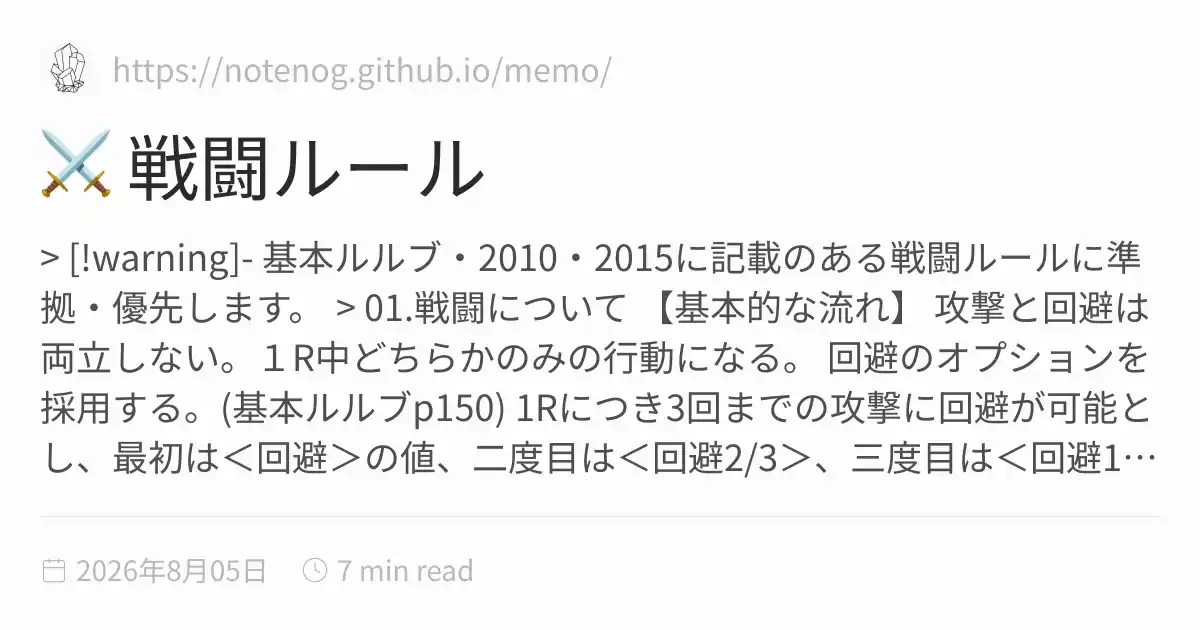
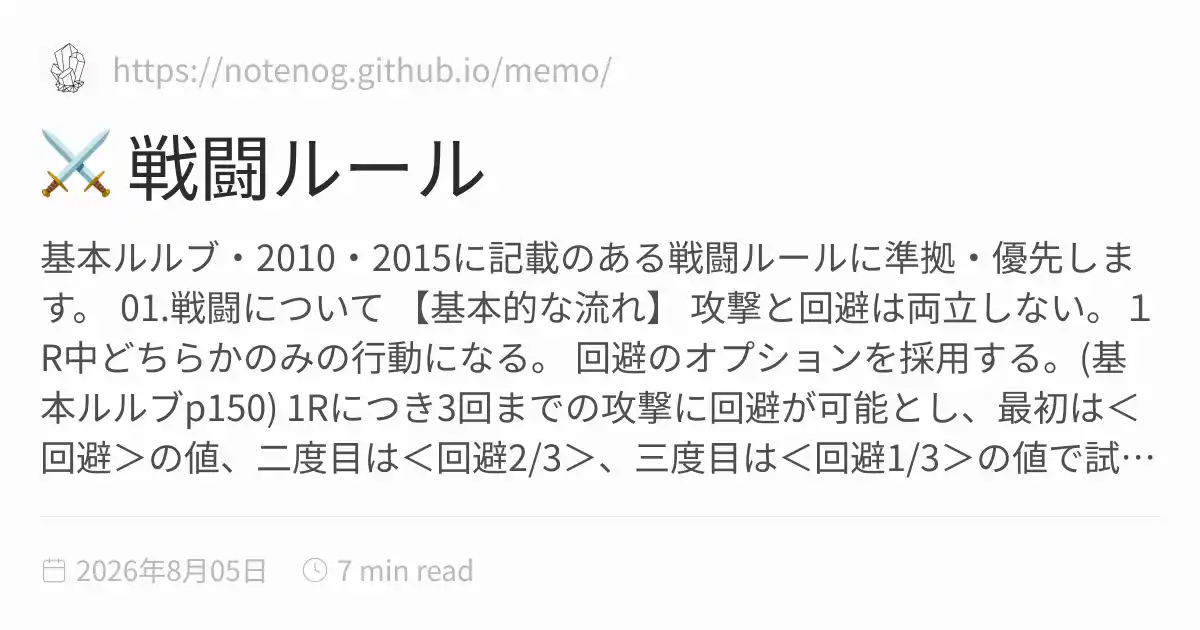
記事を更新

Changed region(s): [[0.0308, 0.5429, 0.9558, 0.754], [0.0308, 0.3619, 0.9558, 0.5127]]

diff --git a/docs/CoC/02CoC_battle.html b/docs/CoC/02CoC_battle.html
@@ -1,5 +1,5 @@
 <!DOCTYPE html>
-<html lang="ja" dir="ltr"><head><title>⚔ 戦闘ルール</title><meta charset="utf-8"/><link rel="preconnect" href="https://fonts.googleapis.com"/><link rel="preconnect" href="https://fonts.gstatic.com"/><link rel="stylesheet" href="https://fonts.googleapis.com/css2?family=Schibsted Grotesk:wght@400;700&amp;family=Noto Sans JP:ital,wght@0,400;0,600;1,400;1,600&amp;family=IBM Plex Mono:wght@400;600&amp;display=swap"/><link rel="preconnect" href="https://cdnjs.cloudflare.com" crossorigin="anonymous"/><meta name="viewport" content="width=device-width, initial-scale=1.0"/><meta name="og:site_name" content="memo"/><meta property="og:title" content="⚔ 戦闘ルール"/><meta property="og:type" content="website"/><meta name="twitter:card" content="summary_large_image"/><meta name="twitter:title" content="⚔ 戦闘ルール"/><meta name="twitter:description" content="> [!warning]- 基本ルルブ・2010・2015に記載のある戦闘ルールに準拠・優先します。 > 01.戦闘について 【基本的な流れ】 攻撃と回避は両立しない。１R中どちらかのみの行動になる。 回避のオプションを採用する。(基本ルルブp150) 1Rにつき3回までの攻撃に回避が可能とし、最初は＜回避＞の値、二度目は＜回避2/3＞、三度目は＜回避1/3＞の値で試みることが出来る。数値は切り上げ。 １つの攻撃に３回回避が出来る訳ではない。一度回避に失敗した時点でダメージロールを行う。 ただし上記の通り、既に攻撃を行ってる場合回避は一度も行えない。逆も同様。 受け流しはあらゆる..."/><meta property="og:description" content="> [!warning]- 基本ルルブ・2010・2015に記載のある戦闘ルールに準拠・優先します。 > 01.戦闘について 【基本的な流れ】 攻撃と回避は両立しない。１R中どちらかのみの行動になる。 回避のオプションを採用する。(基本ルルブp150) 1Rにつき3回までの攻撃に回避が可能とし、最初は＜回避＞の値、二度目は＜回避2/3＞、三度目は＜回避1/3＞の値で試みることが出来る。数値は切り上げ。 １つの攻撃に３回回避が出来る訳ではない。一度回避に失敗した時点でダメージロールを行う。 ただし上記の通り、既に攻撃を行ってる場合回避は一度も行えない。逆も同様。 受け流しはあらゆる..."/><meta property="og:image:alt" content="> [!warning]- 基本ルルブ・2010・2015に記載のある戦闘ルールに準拠・優先します。 > 01.戦闘について 【基本的な流れ】 攻撃と回避は両立しない。１R中どちらかのみの行動になる。 回避のオプションを採用する。(基本ルルブp150) 1Rにつき3回までの攻撃に回避が可能とし、最初は＜回避＞の値、二度目は＜回避2/3＞、三度目は＜回避1/3＞の値で試みることが出来る。数値は切り上げ。 １つの攻撃に３回回避が出来る訳ではない。一度回避に失敗した時点でダメージロールを行う。 ただし上記の通り、既に攻撃を行ってる場合回避は一度も行えない。逆も同様。 受け流しはあらゆる..."/><meta property="twitter:domain" content="https://notenog.github.io/memo/"/><meta property="og:url" content="https://https//notenog.github.io/memo/CoC/02CoC_battle"/><meta property="twitter:url" content="https://https//notenog.github.io/memo/CoC/02CoC_battle"/><link rel="icon" href="../static/icon.png"/><meta name="description" content="> [!warning]- 基本ルルブ・2010・2015に記載のある戦闘ルールに準拠・優先します。 > 01.戦闘について 【基本的な流れ】 攻撃と回避は両立しない。１R中どちらかのみの行動になる。 回避のオプションを採用する。(基本ルルブp150) 1Rにつき3回までの攻撃に回避が可能とし、最初は＜回避＞の値、二度目は＜回避2/3＞、三度目は＜回避1/3＞の値で試みることが出来る。数値は切り上げ。 １つの攻撃に３回回避が出来る訳ではない。一度回避に失敗した時点でダメージロールを行う。 ただし上記の通り、既に攻撃を行ってる場合回避は一度も行えない。逆も同様。 受け流しはあらゆる..."/><meta name="generator" content="Quartz"/><link href="../index.css" rel="stylesheet" type="text/css" spa-preserve/><style>.expand-button {
+<html lang="ja" dir="ltr"><head><title>⚔ 戦闘ルール</title><meta charset="utf-8"/><link rel="preconnect" href="https://fonts.googleapis.com"/><link rel="preconnect" href="https://fonts.gstatic.com"/><link rel="stylesheet" href="https://fonts.googleapis.com/css2?family=Schibsted Grotesk:wght@400;700&amp;family=Noto Sans JP:ital,wght@0,400;0,600;1,400;1,600&amp;family=IBM Plex Mono:wght@400;600&amp;display=swap"/><link rel="preconnect" href="https://cdnjs.cloudflare.com" crossorigin="anonymous"/><meta name="viewport" content="width=device-width, initial-scale=1.0"/><meta name="og:site_name" content="memo"/><meta property="og:title" content="⚔ 戦闘ルール"/><meta property="og:type" content="website"/><meta name="twitter:card" content="summary_large_image"/><meta name="twitter:title" content="⚔ 戦闘ルール"/><meta name="twitter:description" content="基本ルルブ・2010・2015に記載のある戦闘ルールに準拠・優先します。 01.戦闘について 【基本的な流れ】 攻撃と回避は両立しない。１R中どちらかのみの行動になる。 回避のオプションを採用する。(基本ルルブp150) 1Rにつき3回までの攻撃に回避が可能とし、最初は＜回避＞の値、二度目は＜回避2/3＞、三度目は＜回避1/3＞の値で試みることが出来る。数値は切り上げ。 １つの攻撃に３回回避が出来る訳ではない。一度回避に失敗した時点でダメージロールを行う。 ただし上記の通り、既に攻撃を行ってる場合回避は一度も行えない。逆も同様。 受け流しはあらゆる行動と両立する。1Rに一度可能。(１R内に攻..."/><meta property="og:description" content="基本ルルブ・2010・2015に記載のある戦闘ルールに準拠・優先します。 01.戦闘について 【基本的な流れ】 攻撃と回避は両立しない。１R中どちらかのみの行動になる。 回避のオプションを採用する。(基本ルルブp150) 1Rにつき3回までの攻撃に回避が可能とし、最初は＜回避＞の値、二度目は＜回避2/3＞、三度目は＜回避1/3＞の値で試みることが出来る。数値は切り上げ。 １つの攻撃に３回回避が出来る訳ではない。一度回避に失敗した時点でダメージロールを行う。 ただし上記の通り、既に攻撃を行ってる場合回避は一度も行えない。逆も同様。 受け流しはあらゆる行動と両立する。1Rに一度可能。(１R内に攻..."/><meta property="og:image:alt" content="基本ルルブ・2010・2015に記載のある戦闘ルールに準拠・優先します。 01.戦闘について 【基本的な流れ】 攻撃と回避は両立しない。１R中どちらかのみの行動になる。 回避のオプションを採用する。(基本ルルブp150) 1Rにつき3回までの攻撃に回避が可能とし、最初は＜回避＞の値、二度目は＜回避2/3＞、三度目は＜回避1/3＞の値で試みることが出来る。数値は切り上げ。 １つの攻撃に３回回避が出来る訳ではない。一度回避に失敗した時点でダメージロールを行う。 ただし上記の通り、既に攻撃を行ってる場合回避は一度も行えない。逆も同様。 受け流しはあらゆる行動と両立する。1Rに一度可能。(１R内に攻..."/><meta property="twitter:domain" content="https://notenog.github.io/memo/"/><meta property="og:url" content="https://https//notenog.github.io/memo/CoC/02CoC_battle"/><meta property="twitter:url" content="https://https//notenog.github.io/memo/CoC/02CoC_battle"/><link rel="icon" href="../static/icon.png"/><meta name="description" content="基本ルルブ・2010・2015に記載のある戦闘ルールに準拠・優先します。 01.戦闘について 【基本的な流れ】 攻撃と回避は両立しない。１R中どちらかのみの行動になる。 回避のオプションを採用する。(基本ルルブp150) 1Rにつき3回までの攻撃に回避が可能とし、最初は＜回避＞の値、二度目は＜回避2/3＞、三度目は＜回避1/3＞の値で試みることが出来る。数値は切り上げ。 １つの攻撃に３回回避が出来る訳ではない。一度回避に失敗した時点でダメージロールを行う。 ただし上記の通り、既に攻撃を行ってる場合回避は一度も行えない。逆も同様。 受け流しはあらゆる行動と両立する。1Rに一度可能。(１R内に攻..."/><meta name="generator" content="Quartz"/><link href="../index.css" rel="stylesheet" type="text/css" spa-preserve/><style>.expand-button {
   position: absolute;
   display: flex;
   float: right;
@@ -116,9 +116,13 @@ pre:hover > .expand-button {
   padding: 0 12px;
   font-size: 14px;
 }
[1 lines of base64/hex data omitted]
-> [!warning]- 基本ルルブ・2010・2015に記載のある戦闘ルールに準拠・優先します。
-> 
[1 lines of base64/hex data omitted]
+<div class="callout-title">
+                  <div class="callout-icon"></div>
+                  <div class="callout-title-inner"><p>基本ルルブ・2010・2015に記載のある戦闘ルールに準拠・優先します。 </p></div>
+                  <div class="fold-callout-icon"></div>
+                </div>
+</blockquote>
 <h1 id="01戦闘について">01.戦闘について<a role="anchor" aria-hidden="true" tabindex="-1" data-no-popover="true" href="#01戦闘について" class="internal"><svg width="18" height="18" viewBox="0 0 24 24" fill="none" stroke="currentColor" stroke-width="2" stroke-linecap="round" stroke-linejoin="round"><path d="M10 13a5 5 0 0 0 7.54.54l3-3a5 5 0 0 0-7.07-7.07l-1.72 1.71"></path><path d="M14 11a5 5 0 0 0-7.54-.54l-3 3a5 5 0 0 0 7.07 7.07l1.71-1.71"></path></svg></a></h1>
 <h3 id="基本的な流れ">【基本的な流れ】<a role="anchor" aria-hidden="true" tabindex="-1" data-no-popover="true" href="#基本的な流れ" class="internal"><svg width="18" height="18" viewBox="0 0 24 24" fill="none" stroke="currentColor" stroke-width="2" stroke-linecap="round" stroke-linejoin="round"><path d="M10 13a5 5 0 0 0 7.54.54l3-3a5 5 0 0 0-7.07-7.07l-1.72 1.71"></path><path d="M14 11a5 5 0 0 0-7.54-.54l-3 3a5 5 0 0 0 7.07 7.07l1.71-1.71"></path></svg></a></h3>
 <ul>

diff --git a/docs/inSANe_old/index.html b/docs/inSANe_old/index.html
@@ -116,6 +116,6 @@ pre:hover > .expand-button {
   padding: 0 12px;
   font-size: 14px;
 }
[2 lines of base64/hex data omitted]
 </script><script type="module">function f(i,e){if(!i)return;function r(o){o.target===this&&(o.preventDefault(),o.stopPropagation(),e())}function t(o){o.key.startsWith("Esc")&&(o.preventDefault(),e())}i?.addEventListener("click",r),window.addCleanup(()=>i?.removeEventListener("click",r)),document.addEventListener("keydown",t),window.addCleanup(()=>document.removeEventListener("keydown",t))}function y(i){for(;i.firstChild;)i.removeChild(i.firstChild)}var h=class{constructor(e,r){this.container=e;this.content=r;this.setupEventListeners(),this.setupNavigationControls(),this.resetTransform()}isDragging=!1;startPan={x:0,y:0};currentPan={x:0,y:0};scale=1;MIN_SCALE=.5;MAX_SCALE=3;cleanups=[];setupEventListeners(){let e=this.onMouseDown.bind(this),r=this.onMouseMove.bind(this),t=this.onMouseUp.bind(this),o=this.resetTransform.bind(this);this.container.addEventListener("mousedown",e),document.addEventListener("mousemove",r),document.addEventListener("mouseup",t),window.addEventListener("resize",o),this.cleanups.push(()=>this.container.removeEventListener("mousedown",e),()=>document.removeEventListener("mousemove",r),()=>document.removeEventListener("mouseup",t),()=>window.removeEventListener("resize",o))}cleanup(){for(let e of this.cleanups)e()}setupNavigationControls(){let e=document.createElement("div");e.className="mermaid-controls";let r=this.createButton("+",()=>this.zoom(.1)),t=this.createButton("-",()=>this.zoom(-.1)),o=this.createButton("Reset",()=>this.resetTransform());e.appendChild(t),e.appendChild(o),e.appendChild(r),this.container.appendChild(e)}createButton(e,r){let t=document.createElement("button");return t.textContent=e,t.className="mermaid-control-button",t.addEventListener("click",r),window.addCleanup(()=>t.removeEventListener("click",r)),t}onMouseDown(e){e.button===0&&(this.isDragging=!0,this.startPan={x:e.clientX-this.currentPan.x,y:e.clientY-this.currentPan.y},this.container.style.cursor="grabbing")}onMouseMove(e){this.isDragging&&(e.preventDefault(),this.currentPan={x:e.clientX-this.startPan.x,y:e.clientY-this.startPan.y},this.updateTransform())}onMouseUp(){this.isDragging=!1,this.container.style.cursor="grab"}zoom(e){let r=Math.min(Math.max(this.scale+e,this.MIN_SCALE),this.MAX_SCALE),t=this.content.getBoundingClientRect(),o=t.width/2,n=t.height/2,c=r-this.scale;this.currentPan.x-=o*c,this.currentPan.y-=n*c,this.scale=r,this.updateTransform()}updateTransform(){this.content.style.transform=`translate(${this.currentPan.x}px, ${this.currentPan.y}px) scale(${this.scale})`}resetTransform(){this.scale=1;let e=this.content.querySelector("svg");this.currentPan={x:e.getBoundingClientRect().width/2,y:e.getBoundingClientRect().height/2},this.updateTransform()}},C=["--secondary","--tertiary","--gray","--light","--lightgray","--highlight","--dark","--darkgray","--codeFont"],E;document.addEventListener("nav",async()=>{let e=document.querySelector(".center").querySelectorAll("code.mermaid");if(e.length===0)return;E||=await import("https://cdnjs.cloudflare.com/ajax/libs/mermaid/11.4.0/mermaid.esm.min.mjs");let r=E.default,t=new WeakMap;for(let n of e)t.set(n,n.innerText);async function o(){for(let s of e){s.removeAttribute("data-processed");let a=t.get(s);a&&(s.innerHTML=a)}let n=C.reduce((s,a)=>(s[a]=window.getComputedStyle(document.documentElement).getPropertyValue(a),s),{}),c=document.documentElement.getAttribute("saved-theme")==="dark";r.initialize({startOnLoad:!1,securityLevel:"loose",theme:c?"dark":"base",themeVariables:{fontFamily:n["--codeFont"],primaryColor:n["--light"],primaryTextColor:n["--darkgray"],primaryBorderColor:n["--tertiary"],lineColor:n["--darkgray"],secondaryColor:n["--secondary"],tertiaryColor:n["--tertiary"],clusterBkg:n["--light"],edgeLabelBackground:n["--highlight"]}}),await r.run({nodes:e})}await o(),document.addEventListener("themechange",o),window.addCleanup(()=>document.removeEventListener("themechange",o));for(let n=0;n<e.length;n++){let v=function(){let g=l.querySelector("#mermaid-space"),m=l.querySelector(".mermaid-content");if(!m)return;y(m);let w=c.querySelector("svg").cloneNode(!0);m.appendChild(w),l.classList.add("active"),g.style.cursor="grab",u=new h(g,m)},M=function(){l.classList.remove("active"),u?.cleanup(),u=null},c=e[n],s=c.parentElement,a=s.querySelector(".clipboard-button"),d=s.querySelector(".expand-button"),p=window.getComputedStyle(a),L=a.offsetWidth+parseFloat(p.marginLeft||"0")+parseFloat(p.marginRight||"0");d.style.right=`calc(${L}px + 0.3rem)`,s.prepend(d);let l=s.querySelector("#mermaid-container");if(!l)return;let u=null;d.addEventListener("click",v),f(l,M),window.addCleanup(()=>{u?.cleanup(),d.removeEventListener("click",v)})}});
 </script><script src="https://cdn.jsdelivr.net/npm/katex@0.16.11/dist/contrib/copy-tex.min.js" type="application/javascript"></script><script src="../postscript.js" type="module"></script></html>

diff --git a/docs/CoC/index.html b/docs/CoC/index.html
@@ -116,6 +116,6 @@ pre:hover > .expand-button {
   padding: 0 12px;
   font-size: 14px;
 }
[2 lines of base64/hex data omitted]
 </script><script type="module">function f(i,e){if(!i)return;function r(o){o.target===this&&(o.preventDefault(),o.stopPropagation(),e())}function t(o){o.key.startsWith("Esc")&&(o.preventDefault(),e())}i?.addEventListener("click",r),window.addCleanup(()=>i?.removeEventListener("click",r)),document.addEventListener("keydown",t),window.addCleanup(()=>document.removeEventListener("keydown",t))}function y(i){for(;i.firstChild;)i.removeChild(i.firstChild)}var h=class{constructor(e,r){this.container=e;this.content=r;this.setupEventListeners(),this.setupNavigationControls(),this.resetTransform()}isDragging=!1;startPan={x:0,y:0};currentPan={x:0,y:0};scale=1;MIN_SCALE=.5;MAX_SCALE=3;cleanups=[];setupEventListeners(){let e=this.onMouseDown.bind(this),r=this.onMouseMove.bind(this),t=this.onMouseUp.bind(this),o=this.resetTransform.bind(this);this.container.addEventListener("mousedown",e),document.addEventListener("mousemove",r),document.addEventListener("mouseup",t),window.addEventListener("resize",o),this.cleanups.push(()=>this.container.removeEventListener("mousedown",e),()=>document.removeEventListener("mousemove",r),()=>document.removeEventListener("mouseup",t),()=>window.removeEventListener("resize",o))}cleanup(){for(let e of this.cleanups)e()}setupNavigationControls(){let e=document.createElement("div");e.className="mermaid-controls";let r=this.createButton("+",()=>this.zoom(.1)),t=this.createButton("-",()=>this.zoom(-.1)),o=this.createButton("Reset",()=>this.resetTransform());e.appendChild(t),e.appendChild(o),e.appendChild(r),this.container.appendChild(e)}createButton(e,r){let t=document.createElement("button");return t.textContent=e,t.className="mermaid-control-button",t.addEventListener("click",r),window.addCleanup(()=>t.removeEventListener("click",r)),t}onMouseDown(e){e.button===0&&(this.isDragging=!0,this.startPan={x:e.clientX-this.currentPan.x,y:e.clientY-this.currentPan.y},this.container.style.cursor="grabbing")}onMouseMove(e){this.isDragging&&(e.preventDefault(),this.currentPan={x:e.clientX-this.startPan.x,y:e.clientY-this.startPan.y},this.updateTransform())}onMouseUp(){this.isDragging=!1,this.container.style.cursor="grab"}zoom(e){let r=Math.min(Math.max(this.scale+e,this.MIN_SCALE),this.MAX_SCALE),t=this.content.getBoundingClientRect(),o=t.width/2,n=t.height/2,c=r-this.scale;this.currentPan.x-=o*c,this.currentPan.y-=n*c,this.scale=r,this.updateTransform()}updateTransform(){this.content.style.transform=`translate(${this.currentPan.x}px, ${this.currentPan.y}px) scale(${this.scale})`}resetTransform(){this.scale=1;let e=this.content.querySelector("svg");this.currentPan={x:e.getBoundingClientRect().width/2,y:e.getBoundingClientRect().height/2},this.updateTransform()}},C=["--secondary","--tertiary","--gray","--light","--lightgray","--highlight","--dark","--darkgray","--codeFont"],E;document.addEventListener("nav",async()=>{let e=document.querySelector(".center").querySelectorAll("code.mermaid");if(e.length===0)return;E||=await import("https://cdnjs.cloudflare.com/ajax/libs/mermaid/11.4.0/mermaid.esm.min.mjs");let r=E.default,t=new WeakMap;for(let n of e)t.set(n,n.innerText);async function o(){for(let s of e){s.removeAttribute("data-processed");let a=t.get(s);a&&(s.innerHTML=a)}let n=C.reduce((s,a)=>(s[a]=window.getComputedStyle(document.documentElement).getPropertyValue(a),s),{}),c=document.documentElement.getAttribute("saved-theme")==="dark";r.initialize({startOnLoad:!1,securityLevel:"loose",theme:c?"dark":"base",themeVariables:{fontFamily:n["--codeFont"],primaryColor:n["--light"],primaryTextColor:n["--darkgray"],primaryBorderColor:n["--tertiary"],lineColor:n["--darkgray"],secondaryColor:n["--secondary"],tertiaryColor:n["--tertiary"],clusterBkg:n["--light"],edgeLabelBackground:n["--highlight"]}}),await r.run({nodes:e})}await o(),document.addEventListener("themechange",o),window.addCleanup(()=>document.removeEventListener("themechange",o));for(let n=0;n<e.length;n++){let v=function(){let g=l.querySelector("#mermaid-space"),m=l.querySelector(".mermaid-content");if(!m)return;y(m);let w=c.querySelector("svg").cloneNode(!0);m.appendChild(w),l.classList.add("active"),g.style.cursor="grab",u=new h(g,m)},M=function(){l.classList.remove("active"),u?.cleanup(),u=null},c=e[n],s=c.parentElement,a=s.querySelector(".clipboard-button"),d=s.querySelector(".expand-button"),p=window.getComputedStyle(a),L=a.offsetWidth+parseFloat(p.marginLeft||"0")+parseFloat(p.marginRight||"0");d.style.right=`calc(${L}px + 0.3rem)`,s.prepend(d);let l=s.querySelector("#mermaid-container");if(!l)return;let u=null;d.addEventListener("click",v),f(l,M),window.addCleanup(()=>{u?.cleanup(),d.removeEventListener("click",v)})}});
 </script><script src="https://cdn.jsdelivr.net/npm/katex@0.16.11/dist/contrib/copy-tex.min.js" type="application/javascript"></script><script src="../postscript.js" type="module"></script></html>

diff --git a/content/CoC/02CoC_battle.md b/content/CoC/02CoC_battle.md
@@ -4,7 +4,7 @@ draft: false
 ---
 
 
-<br>
+
 > [!warning]- 基本ルルブ・2010・2015に記載のある戦闘ルールに準拠・優先します。
 
 
